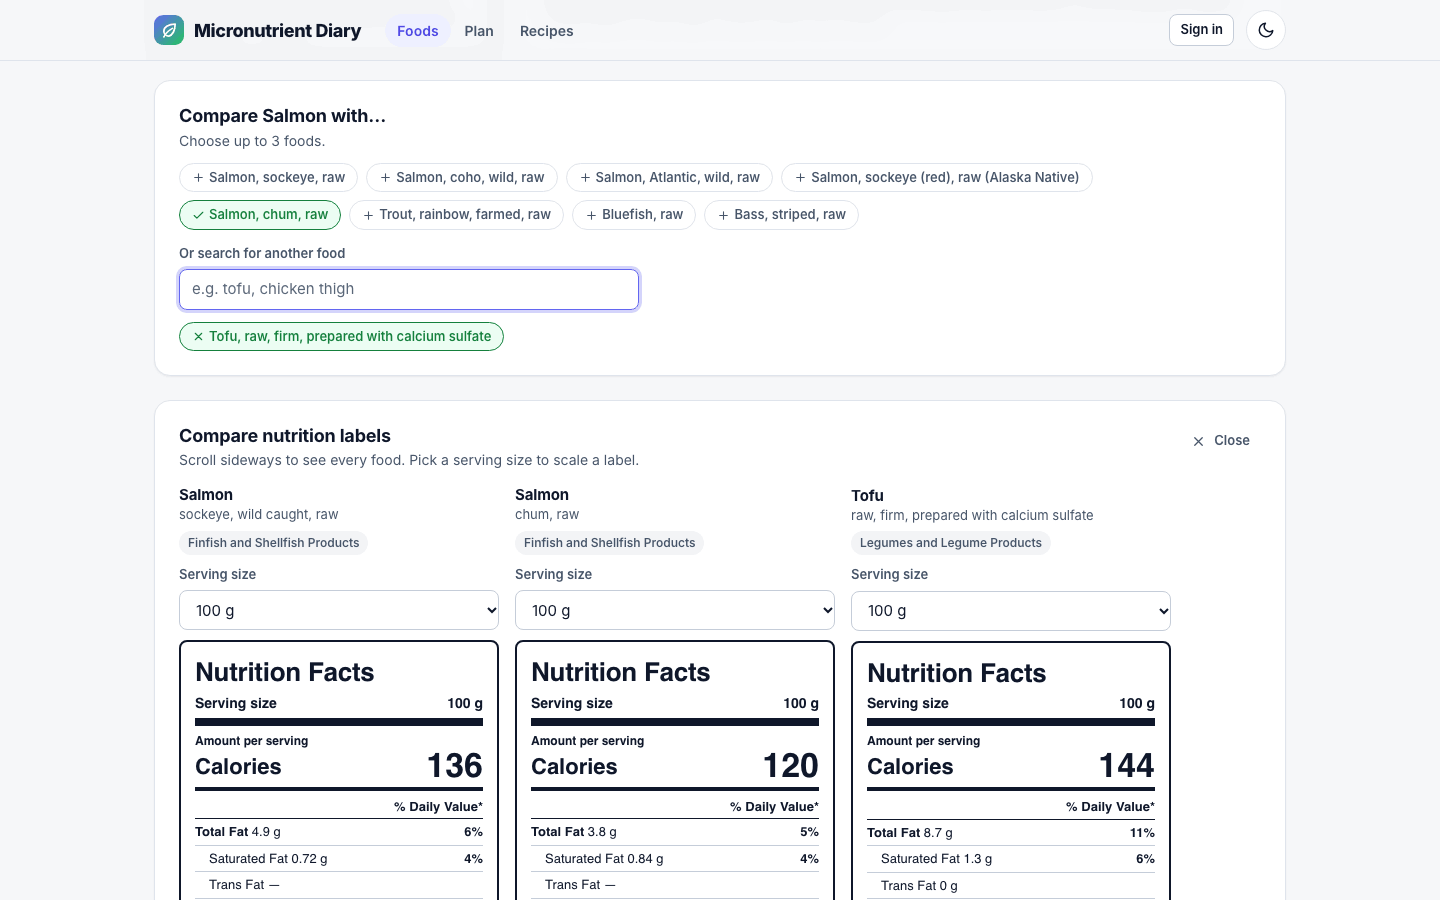
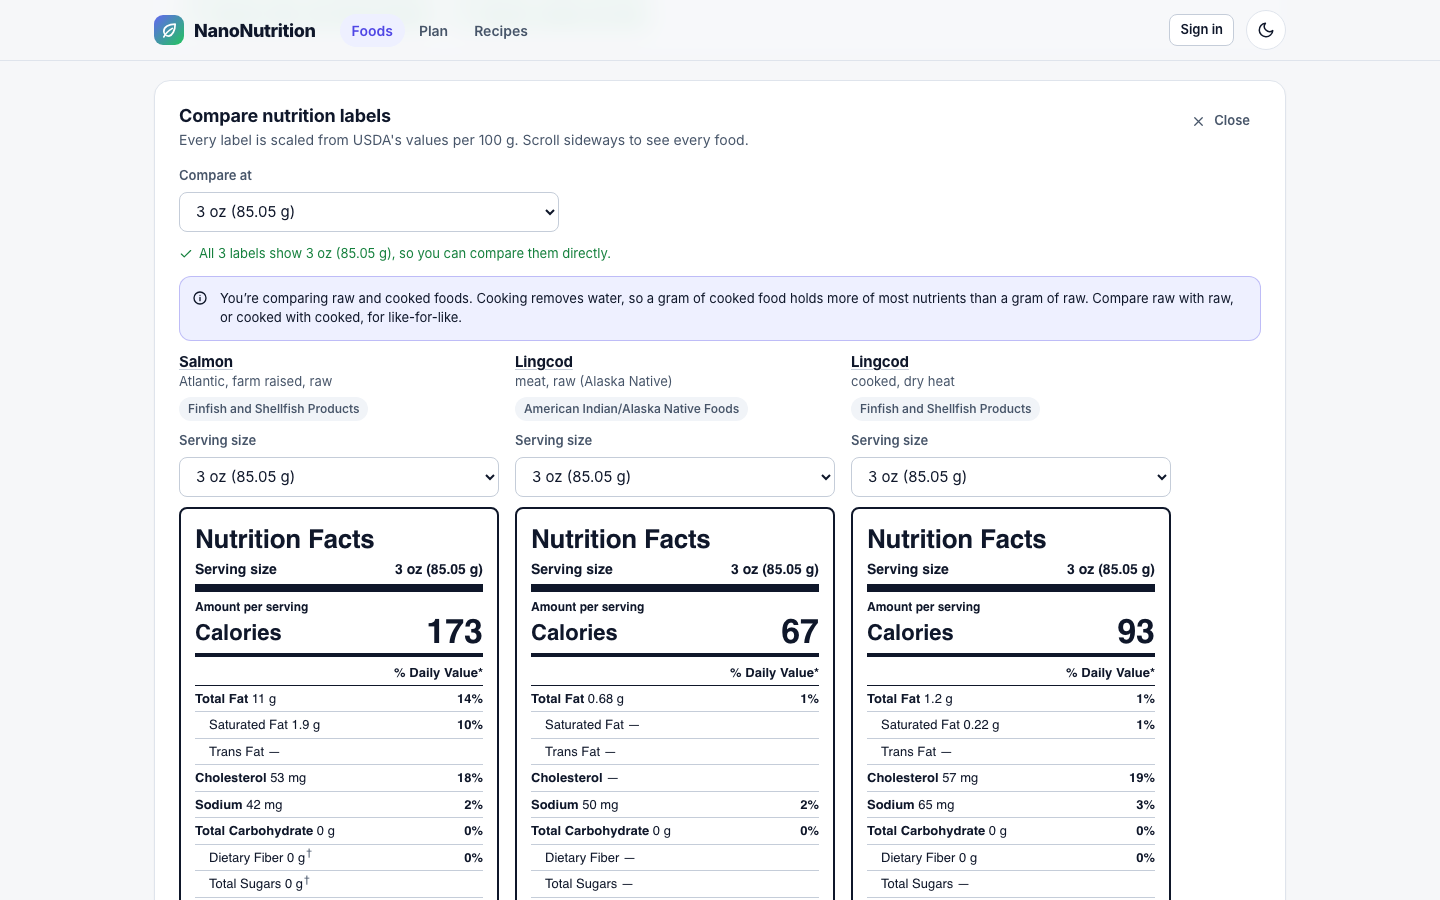
Docs: Compare at one weight, standard weights and ounces on food pages

diff --git a/docs/WEBSITE_WALKTHROUGH.md b/docs/WEBSITE_WALKTHROUGH.md
@@ -76,7 +76,7 @@ Further down:
 - **Add to my plan** puts the food on your planner list, and the planner chooses how much. **Add exactly 216 g** does the same but keeps the serving you picked as a fixed amount, and plans the rest of the day around it. A short line under the buttons says which is which. The button then becomes **In your plan · Open plan**, with the amount if it's fixed.
 - **Compare** opens the [comparison panel](#4-compare).
 - **Share** copies the link, or opens the share sheet on a phone.
-- **Serving size:** household measures from USDA, "1 standard serving", 100 g, or **Custom amount…** (1 to 5,000 g; anything else shows a warning and uses 100 g for now). This one menu drives everything else on the page.
+- **Serving size:** household measures from USDA ("1 cup, chopped (91 g)", "1 standard serving"), then **By weight**: 1 oz (28.35 g), 3 oz (85.05 g) and 100 g for every food, then **Custom amount (g or oz)…** (1 to 5,000 g either way; anything else shows a warning and uses 100 g for now). Ounces show their exact grams underneath ("= 127.57 g"). Every household measure shows its grams. This one menu drives everything else on the page, including the contaminant meters, and Compare uses the same menu.
 - **Nutrition Facts:** the FDA-style label for that serving.
 - **Rich in:** up to five nutrients at 20% of the Daily Value or more for that serving.
 - **All nutrients:** every nutrient, with the amount, a % Daily Value bar and the value per 100 g. "—" means USDA has no measurement. **†** marks a value from USDA's older entry for the same food, used because the newest entry has none. A note under the table links to that entry, and the label and "Where this data comes from" say so too. Measured values are never replaced.
@@ -85,6 +85,10 @@ Further down:
 ![Values from USDA's older entry, marked †](walkthrough/67-food-older-entry.png)
 
 ![Add to my plan, or add exactly this serving](walkthrough/68-food-add-exactly.png)
+
+![A custom amount in ounces](walkthrough/71-food-custom-ounces.png)
+
+**How the numbers scale.** USDA stores every nutrient per 100 g, and that is all the database holds. A serving's amount is that value × grams ÷ 100, from the unrounded value, and only the shown number is rounded (0 decimals from 10, 1 from 1, 2 below 1). % Daily Value comes from the unrounded amount. Ounces are exact: 1 oz = 28.349523125 g, so 3 oz = 85.05 g. Where USDA lists "3 oz" as 85 g, or "1 oz" as 28 or 28.35 g, it is the same menu entry as the standard weight, at the exact grams. The difference is 0.06%, which only moves a number sitting right on a rounding edge, by one in its last digit. "—" stays "—" at every weight, † stays on values from the older entry, and a recipe's lower bounds keep their "≥". All of this is in `lib/serving-scale.ts`, with tests.
 
 ![Related foods and the data source](walkthrough/05-food-related-and-source.png)
 
@@ -148,16 +152,18 @@ At the bottom of a full panel, **How we work this out** repeats the bands and li
 
 ## 4. Compare
 
-![Comparing salmon with two other foods](walkthrough/11-compare.png)
+![Salmon and two kinds of lingcod, all at 3 oz](walkthrough/11-compare.png)
 
 **Compare** on a food page opens a panel below the page.
 
 - **Suggestion chips** offer other forms and similar foods. Click to add or remove one.
 - **Or search for another food** finds anything else. You can add up to three foods, and the rest grey out once you have.
-- **The labels** sit side by side. Each has its own **Serving size** menu, and you scroll sideways if they don't fit.
+- **Compare at** puts every label on the same weight: **1 oz**, **3 oz** or **100 g**, one food's serving ("Broccoli (this page): 1 cup, chopped (91 g)", so the others are shown at 91 g), **Each food's usual serving**, or **Custom amount…** in grams or ounces. It starts at the weight the food page is showing, so the page's food doesn't jump and every food is comparable straight away. A line under it says "All 3 labels show 3 oz (85.05 g), so you can compare them directly."
+- **The labels** sit side by side, and you scroll sideways if they don't fit. Each has its own **Serving size** menu, the same one as on its food page, so a food that USDA only lists at 100 g still has 1 oz and 3 oz. Changing one label's menu overrides **Compare at** for that label only: it gets a **Different weight** tag, and a warning names each food's weight with a **Put every food at 3 oz (85.05 g)** button. Changing **Compare at** puts every label back on it.
+- When raw and cooked foods are side by side (raw salmon and cooked lingcod), a note says that cooking removes water, so equal weights aren't like for like.
 - **Close** hides the panel. The comparison isn't saved and is gone after a reload.
 
-The planner has a similar view, **Compare nutrition labels**, for the foods on your list. Each label starts at the food's typical serving, as its page does, and its name links to that page. Neither shows contaminants.
+The planner has the same view, **Compare nutrition labels**, for the foods on your list, with the same **Compare at** menu. It starts at 100 g, the weight USDA measures every food at, which suits any mix of foods. **Each food's usual serving** shows each at its typical serving instead. Each name links to the food's page. Neither view shows contaminants.
 
 ## 5. Browse by category or nutrient
 
